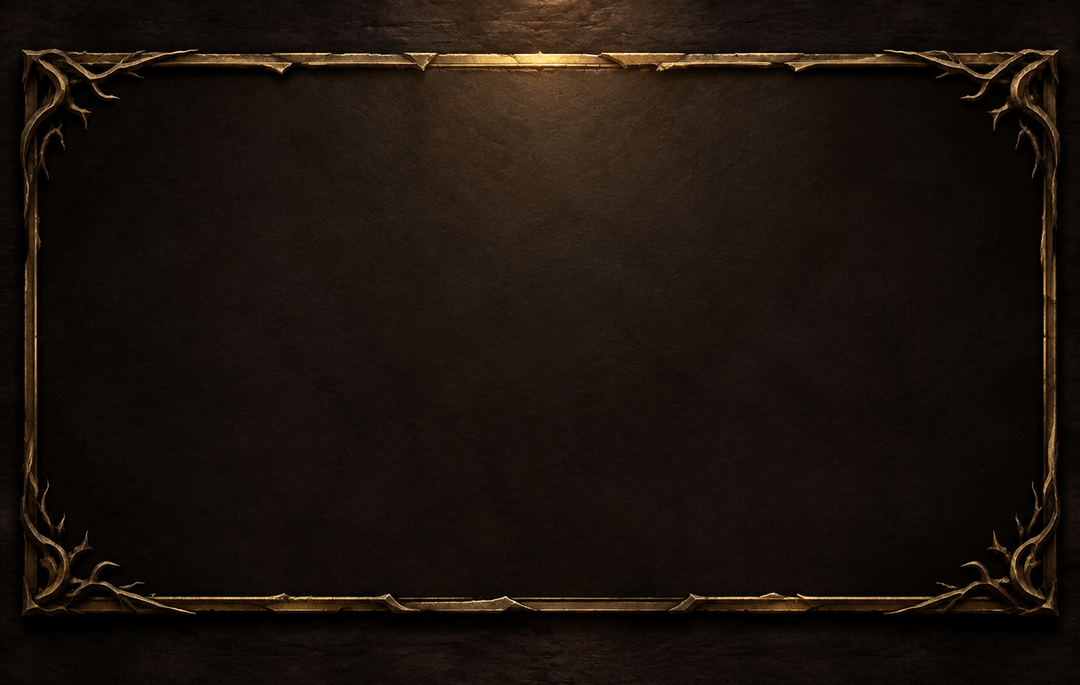
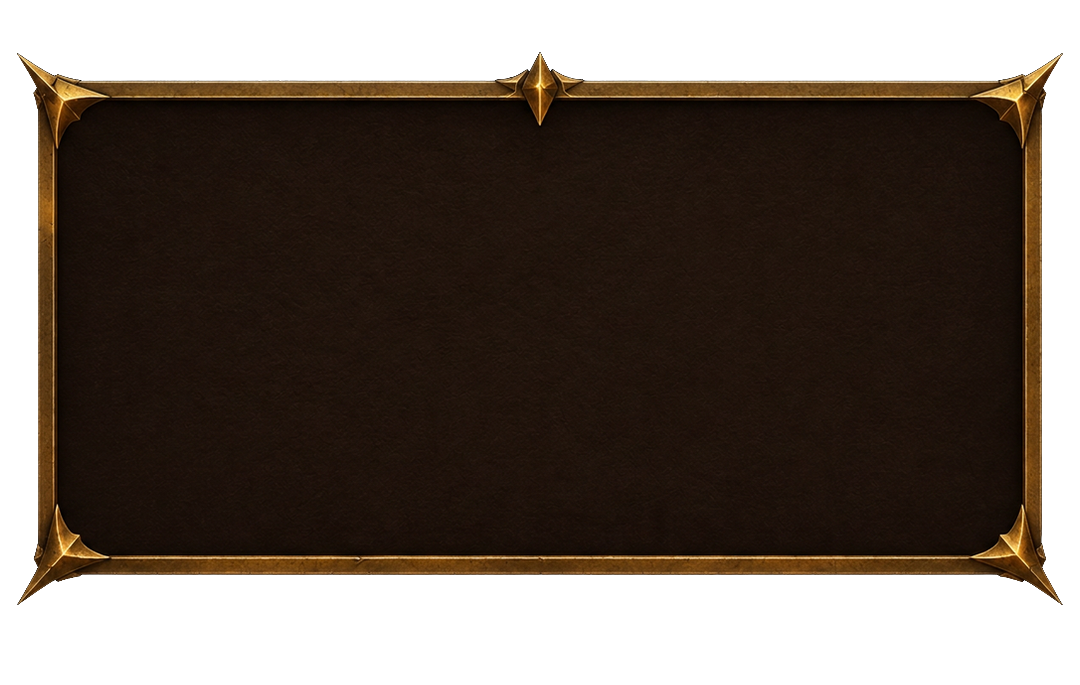
style: 基于930用黑白差分重绘奖励框并保留透明外缘

diff --git a/CLAUDE.md b/CLAUDE.md
@@ -11,6 +11,13 @@
 3. **在本记忆中持续强化此规则**：每轮结束更新「上次做了什么」，并保留本节铁律不被覆盖。
 4. **分支纪律**：以当轮指定基线新建任务分支，完成后只 push 新分支；本轮基线为 `feat930/equipment-attribute-preview`，**绝不推送到任何 `workspace` 系列或原基线分支**，通过 PR 交由用户审阅合入。
 
+## 上次做了什么（2026-10-04，基于最新930重做奖励框黑白抠图）
+
+- 用户纠正上轮实际使用白底亮度阈值，要求真正的黑白双图差分，并改在最新930上工作。本轮基于 `workspace930@6bd7425` 新建 `feat930/reward-frame-bw-20261004`，不整批迁移928，不推基线。
+- 重新用简单示意图出白底稿，再用 `edit_image` 仅换外部黑底；目检双图并校验角点背景，按主体框对齐后以黑白RGB差分取反生成alpha，不使用主体亮度判透明、不补洞。仅裁空白高度到1080×685，保留外边距。
+- `UI_GXHD_1_dark.png` 改为RGBA：角点alpha=0，奖励内部区域alpha全部255；透明像素32.41%。白底与棋盘格合成图已目检，官方Build成功且852345字节成品已入包。白黑过程图与原图仅保留本地非发布目录，未进入提交；游戏内交互效果仍需预览验收。
+- 持续遵守：只推任务分支，不推workspace系列，不自动合并；访问令牌与构建生成的本地配置不提交；交付先简报，需用户决定下一步时真正调用AskUserQuestion。
+
 ## 上次做了什么（2026-10-03，PR46五语与可见计时补齐）
 
 - 用户选定继续修PR46遗留问题，基于692e1d2e新建 `fix/pr46-locale-visible-timer-20261003`。远征轨道/升级横卡动态串接入独立四语词典，缓存键包含当前语言，打开期间切语言刷新；规则缓存保持中文，奖励台账和数值不变，已有全局通用译文不覆盖。
